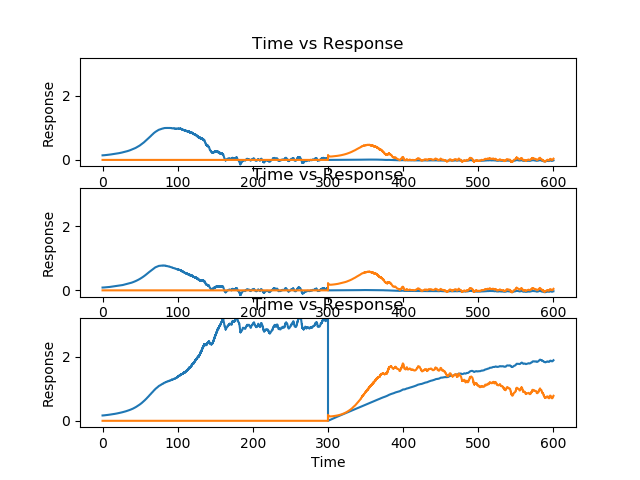
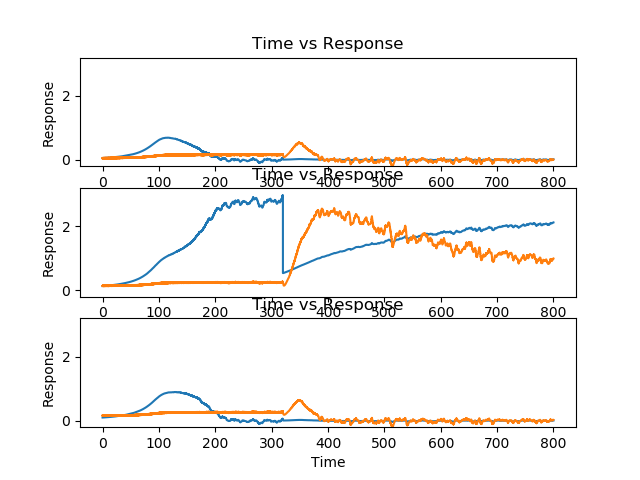
commit 06/14/22

diff --git a/bcm_ttx_network_i0.py b/bcm_ttx_network_i0.py
@@ -1,4 +1,4 @@
-# TTX injected in the ipsilateral eye (here, right eye);
+# TTX injected in the ipsilateral eye (here, right eye); 
 # TTX reduces inhibition to neuron coming from an inhibitory neuron
 
 
@@ -13,24 +13,25 @@ from torch.optim.lr_scheduler import StepLR
 import numpy as np
 from scipy.integrate import quad
 import matplotlib.pyplot as plt
-# hashtag hashtaggers
 
 class BCMNeuron:
     def __init__(self, lgn_l, lgn_r, patterns, p=2, tau_w=10, tau_theta=1, dt=0.01, eps=0,
-                 c0=50, condition='NR', iterations=60000, ttx_point=0.50, tau_ttx=300,
-                 we=1, wi=0.09):
+                 c0=50, condition='NR', iterations=80000, ttx_in = 0.40, ttx_gone =0.30, tau_ttx=400,
+                 contra_factor =1.5, we=1, wi=0.1):
         self.lgn_l = lgn_l  # Number of LGN-cortical input fibers from left eye
         self.lgn_r = lgn_r  # Number of LGN-cortical input fibers from right eye
         self.patterns = patterns  # Number of training patterns
         self.p = p  # Nonlinearity in the definition of theta
         self.tau_w = tau_w  # Modification step size
         self.tau_theta = tau_theta  # Time constant in the definition of theta
-        self.dt = dt  # simulation mesh size
-        self.eps = eps;  # regularization constant for weights
+        self.dt = dt # simulation mesh size
+        self.eps = eps; #regularization constant for weights 
         self.c0 = c0  # Normalization constant in the definition of theta
         self.iterations = iterations
-        self.ttx_in = np.floor(ttx_point * iterations)  # time of ttx injection
+        self.ttx_in = np.floor(ttx_in*iterations) # time of ttx injection
+        self.ttx_gone = np.floor(ttx_gone*iterations) # time of ttx starts to wear out
         self.tau_ttx = tau_ttx
+        self.contra_factor = contra_factor
         self.condition = condition
         #       NR = normal rearing,
         #       MD = monocular deprivation,
@@ -39,12 +40,12 @@ class BCMNeuron:
         #       BD = binocular deprivation
         #       TTX_decay = TTX injected in the ipsilatral eye (here, right eye); TTX decays
         #       TTX_inh = TTX injected in the ipsilateral eye (here, right eye); TTX reduces inhibition to neuron
-
-        ### variables for excitatory (present) BCM neuron
+        
+        ### variables for excitatory (present) BCM neuron       
         self.ml = 0.15 * np.random.rand(1, self.lgn_l)  # weights initialized to numbers btw 0 and 0.15
         self.mr = 0.15 * np.random.rand(1, self.lgn_r)  # weights initialized to numbers btw 0 and 0.15
-        self.weights_l = np.random.rand(1, self.lgn_l)  # record matrix; each row is a weight vector for the iteration
-        self.weights_r = np.random.rand(1, self.lgn_r, )  # record matrix; each row is a weight vector for the iteration
+        self.weights_l = np.random.rand(1,self.lgn_l)  # record matrix; each row is a weight vector for the iteration
+        self.weights_r = np.random.rand(1,self.lgn_r,)  # record matrix; each row is a weight vector for the iteration
         self.theta = 0.15 * np.random.rand()  # sliding threshold initialized to a number btw 0 and 0.15
         self.thresholds = self.theta  # record array of thresholds
         self.tuning_curve_l = np.zeros((self.patterns,))  # record matrix; each row is a tuning curve for the iteration
@@ -53,132 +54,139 @@ class BCMNeuron:
         ### variable for inhibitory neuron
         self.mli = 0.15 * np.random.rand(1, self.lgn_l)  # weights initialized to numbers btw 0 and 0.15
         self.mri = 0.15 * np.random.rand(1, self.lgn_r)  # weights initialized to numbers btw 0 and 0.15
-        self.weights_li = np.random.rand(1, self.lgn_l)  # record matrix; each row is a weight vector for the iteration
-        self.weights_ri = np.random.rand(1,
-                                         self.lgn_r, )  # record matrix; each row is a weight vector for the iteration
+        self.weights_li = np.random.rand(1,self.lgn_l)  # record matrix; each row is a weight vector for the iteration
+        self.weights_ri = np.random.rand(1,self.lgn_r,)  # record matrix; each row is a weight vector for the iteration
         self.thetai = 0.15 * np.random.rand()  # sliding threshold initialized to a number btw 0 and 0.15
         self.thresholdsi = self.thetai  # record array of thresholds
         self.tuning_curve_li = np.zeros((self.patterns,))  # record matrix; each row is a tuning curve for the iteration
         self.tuning_curve_ri = np.zeros((self.patterns,))  # record matrix; each row is a tuning curve for the iteration
 
         ### inhibition parameters
-        self.we = we  # excitatory weight from E to I
-        self.wi = wi  # Inhibitory weight from I to E
+        self.we = we # excitatory weight from E to I
+        self.wi = wi # Inhibitory weight from I to E
 
-    def train(self, da_l, da_r, da_li, da_ri, ds_l=0, ds_r=0,
+    def train(self, da_l, da_r, da_li, da_ri, ds_l=0, ds_r=0, 
               ds_li=0, ds_ri=0):
         # da => actual pattern; ds => spontaneous; n => non-lgn noise
         # r => right, l => left, i => inhibitory
-
-        a = 0.00001  # noise scaler
+        
+        al = 0.1 # noise scaler
+        ar = 0.00001 # noise scaler
+        bl = 0.00001 # noise scaler
+        br = 0.00001 # noise scaler
         # ttx_in = np.floor(0.5*self.iterations)  # time of ttx injection
         # ttx_gone =  np.floor(0.75*self.iterations) # time when ttx wears out
         # ttx_decay = 10
-
+      
         if (self.lgn_l != np.shape(da_l)[1]) or (self.lgn_r != np.shape(da_r)[1]):
             raise Exception('pattern size must equal weight (i.e lgn) size ')
         elif (self.lgn_l != np.shape(ds_l)[1]) or (self.lgn_r != np.shape(ds_r)[1]):
             raise Exception('pattern size must equal weight (i.e lgn) size ')
         else:
-
+            
             for i in range(self.iterations):
-
+                print(i)
                 t = i * self.dt
                 k = np.random.randint(np.shape(da_l)[0])
-
+                
                 # generate noise
-                nl = a * np.random.rand(self.patterns, self.lgn_l)
-                nr = a * np.random.rand(self.patterns, self.lgn_r)
-                nli = a * np.random.rand(self.patterns, self.lgn_l)
-                nri = a * np.random.rand(self.patterns, self.lgn_r)
-
+                nl = al*np.random.rand(self.patterns,self.lgn_l)
+                nr = ar*np.random.rand(self.patterns,self.lgn_r)
+                nli = al*np.random.rand(self.patterns,self.lgn_l)
+                nri = ar*np.random.rand(self.patterns,self.lgn_r)
+                
+                
                 # compute BCM neuron activity
                 # ca = np.sum(self.ml * da_l[k]) + np.sum(self.mr * da_r[k])
                 # cs = np.sum(self.ml * ds_l[k]) + np.sum(self.mr * ds_r[k])
                 # cn = np.sum(self.ml * nl[k]) + np.sum(self.mr * nr[k])
-                # c = ca - cs + cn
-
+                # c = ca - cs + cn 
+              
                 # compute inhibitory neuron activity
                 cai = np.sum(self.mli * da_li[k]) + np.sum(self.mri * da_ri[k])
                 csi = np.sum(self.mli * ds_li[k]) + np.sum(self.mri * ds_ri[k])
                 cni = np.sum(self.mli * nli[k]) + np.sum(self.mri * nri[k])
                 ci = cai - csi + cni
-
+                
+                
                 # nonlinear funtion of threshold and activity for inhibitory neuron
-                phii = ci * (ci - self.thetai)
-                ci = 0
-
-                if i <= self.ttx_in:
-                    # compute BCM neuron activity
-                    ca = 0 * np.sum(self.ml * da_l[k]) + np.sum(self.mr * da_r[k])  # only right eye gets input
-                    cs = 0 * np.sum(self.ml * ds_l[k]) + np.sum(self.mr * ds_r[k])  # only right eye gets input
-                    cn = np.sum(self.ml * nl[k]) + np.sum(self.mr * nr[k])  # both eyes get noise
-                    c = ca - cs + cn
-                    # Feedback loop
-                    # ci = ci + self.we*c
-                    # c = c - self.wi*ci
-                    # nonlinear function of threshold and activity
-                    phi = c * (c - self.theta)
-                    # update left weights for BCM neuron
-                    self.ml = self.ml + (1 / self.tau_w) * self.dt * (
-                                phi * (0 * da_l[k] - 0 * ds_l[k] + nl[k]) - self.eps * self.ml)
-                    # update right weights for BCM neuron
-                    self.mr = self.mr + (1 / self.tau_w) * self.dt * (
-                                phi * (da_r[k] - ds_r[k] + nr[k]) - self.eps * self.mr)
-                    # Add responses to all orientation in the tuning curve matrix
-                    self.tuning_curve_l = np.vstack(
-                        (self.tuning_curve_l, np.sum((0 * da_l - 0 * ds_l + nl) * self.ml, axis=1)))
-                    self.tuning_curve_r = np.vstack((self.tuning_curve_r, np.sum((da_r - ds_r + nr) * self.mr, axis=1)))
+                phii = ci*(ci - self.thetai)
+                ci=0
+              
+                if i <= self.ttx_in:  
+                   # generate noise
+                   nl = al*np.random.rand(self.patterns,self.lgn_l)
+                   nr = ar*np.random.rand(self.patterns,self.lgn_r)
+                   nli = al*np.random.rand(self.patterns,self.lgn_l)
+                   nri = ar*np.random.rand(self.patterns,self.lgn_r)
+                   # compute BCM neuron activity
+                   ca = 0*np.sum(self.ml * da_l[k]) + np.sum(self.mr * da_r[k])  # only right eye gets input
+                   cs = 0*np.sum(self.ml * ds_l[k]) + np.sum(self.mr * ds_r[k])  # only right eye gets input
+                   cn = self.contra_factor*np.sum(self.ml * nl[k]) + np.sum(self.mr * nr[k])   # both eyes get noise
+                   c = ca - cs + cn 
+                   # Feedback loop
+                   ci = ci + self.we*c
+                   c = c - self.wi*ci
+                   # nonlinear funtion of threshold and activity
+                   phi = c*(c - self.theta)
+                   # update left weights for BCM neuron
+                   self.ml = self.ml + (1/self.tau_w) * self.dt * (phi * (0*da_l[k] - 0*ds_l[k] + nl[k]) - self.eps*self.ml)  
+                   # update right weights for BCM neuron      
+                   self.mr = self.mr + (1/self.tau_w) * self.dt * (phi * (da_r[k] - ds_r[k] + nr[k]) - self.eps*self.mr) 
+                   # Add responses to all orientation in the tuning curve matrix
+                   self.tuning_curve_l = np.vstack((self.tuning_curve_l, self.contra_factor * np.sum((da_l - ds_l + nl) * self.ml, axis=1)))
+                   self.tuning_curve_r = np.vstack((self.tuning_curve_r, np.sum((da_r - ds_r + nr) * self.mr, axis=1)))
                 else:
-                    # ttx_factor = np.exp((i-ttx_gone)*np.heaviside(ttx_gone-i,0))
-                    ttx_factor = (1 - np.exp(self.dt * (1 / self.tau_ttx) * (self.ttx_in - i)))
-                    # ttx_factor = np.heaviside(i-60000,0)
-                    # ttx_factor = 0
-                    # print(ttx_factor)
-                    # compute BCM neuron activity
-                    ca = np.sum(self.ml * da_l[k]) + ttx_factor * np.sum(self.mr * da_r[k])
-                    cs = np.sum(self.ml * ds_l[k]) + ttx_factor * np.sum(self.mr * ds_r[k])
-                    cn = np.sum(self.ml * nl[k]) + ttx_factor * np.sum(self.mr * nr[k])
-                    c = ca - cs + cn
-                    # Feedback loop
-                    ci = ci + self.we * c
-                    c = c - self.wi * ci
-                    # nonlinear funtion of threshold and activity
-                    phi = c * (c - self.theta)
-                    # update left weights for BCM neuron
-                    self.ml = self.ml + (1 / self.tau_w) * self.dt * (
-                                phi * (da_l[k] - ds_l[k] + nl[k]) - self.eps * self.ml)
-                    # update right weights for BCM neuron
-                    self.mr = self.mr + (1 / self.tau_w) * self.dt * (
-                                phi * ttx_factor * (da_r[k] - ds_r[k] + nr[k]) - self.eps * self.mr)
-                    # Add responses to all orientation in the tuning curve matrix
-                    self.tuning_curve_l = np.vstack((self.tuning_curve_l, np.sum((da_l - ds_l + nl) * self.ml, axis=1)))
-                    self.tuning_curve_r = np.vstack(
-                        (self.tuning_curve_r, np.sum(ttx_factor * (da_r - ds_r + nr) * self.mr, axis=1)))
-
+                   # generate noise
+                   nl = bl*np.random.rand(self.patterns,self.lgn_l)
+                   nr = br*np.random.rand(self.patterns,self.lgn_r)
+                   nli = bl*np.random.rand(self.patterns,self.lgn_l)
+                   nri = br*np.random.rand(self.patterns,self.lgn_r)
+                   # ttx_factor = np.exp((i-ttx_gone)*np.heaviside(ttx_gone-i,0))
+                   #ttx_factor = (1- np.exp(self.dt*(1/self.tau_ttx)*(self.ttx_in-i)))
+                   ttx_factor = np.heaviside(i-self.ttx_gone,0)*\
+                                (1- np.exp(self.dt*(1/self.tau_ttx)*(self.ttx_gone-i)))
+                   # ttx_factor = np.heaviside(i-60000,0)
+                   # ttx_factor = 0
+                   # print(ttx_factor)
+                   # compute BCM neuron activity
+                   ca =  np.sum(self.ml * da_l[k]) + ttx_factor * np.sum(self.mr * da_r[k])
+                   cs =  np.sum(self.ml * ds_l[k]) + ttx_factor * np.sum(self.mr * ds_r[k])
+                   cn =  np.sum(self.ml * nl[k]) + ttx_factor * np.sum(self.mr * nr[k])
+                   c = ca - cs + cn 
+                   # Feedback loop
+                   ci = ci + self.we*c
+                   c = c - self.wi*ci
+                   # nonlinear funtion of threshold and activity
+                   phi = c*(c - self.theta)
+                   # update left weights for BCM neuron
+                   self.ml = self.ml + (1/self.tau_w) * self.dt * (phi * (da_l[k] - ds_l[k] + nl[k]) - self.eps*self.ml)  
+                   # update right weights for BCM neuron   
+                   self.mr = self.mr + (1/self.tau_w) * self.dt * (phi * ttx_factor * (da_r[k] - ds_r[k] + nr[k]) - self.eps*self.mr) 
+                   # Add responses to all orientation in the tuning curve matrix
+                   self.tuning_curve_l = np.vstack((self.tuning_curve_l, np.sum(self.contra_factor* (da_l - ds_l + nl) * self.ml, axis=1)))
+                   # self.tuning_curve_r = np.vstack((self.tuning_curve_r, np.sum(np.heaviside(i-self.ttx_gone,0)*(da_r - ds_r + nr) * self.mr, axis=1)))
+                   self.tuning_curve_r = np.vstack((self.tuning_curve_r, np.sum(ttx_factor *(da_r - ds_r + nr) * self.mr, axis=1)))
+  
                 # update left weights for inhibitory neuron
-                self.mli = self.mli + (1 / self.tau_w) * self.dt * (
-                            phii * (da_li[k] - ds_li[k] + nli[k]) - self.eps * self.mli)
-                # update right weights for inhibitory neuron
-                self.mri = self.mri + (1 / self.tau_w) * self.dt * (
-                            phii * (da_ri[k] - ds_ri[k] + nri[k]) - self.eps * self.mri)
-
+                self.mli = self.mli + (1/self.tau_w) * self.dt * (phii * (da_li[k] - ds_li[k] + nli[k]) - self.eps*self.mli)  
+                # update right weights for inhibitory neuron      
+                self.mri = self.mri + (1/self.tau_w) * self.dt * (phii * (da_ri[k] - ds_ri[k] + nri[k]) - self.eps*self.mri) 
+                          
                 # Add new weights to the weight matrices
                 self.weights_l = np.vstack((self.weights_l, self.ml))
                 self.weights_r = np.vstack((self.weights_r, self.mr))
                 self.weights_li = np.vstack((self.weights_li, self.mli))
                 self.weights_ri = np.vstack((self.weights_ri, self.mri))
                 # We need to now update theta
-                self.theta = self.theta + (1 / self.tau_theta) * self.dt * (ca ** self.p - self.theta)
-                self.thetai = self.thetai + (1 / self.tau_theta) * self.dt * (ca ** self.p - self.thetai)
+                self.theta = self.theta + (1/self.tau_theta) * self.dt * (ca**self.p-self.theta)
+                self.thetai = self.thetai + (1/self.tau_theta) * self.dt * (ca**self.p-self.thetai)
                 # Add new theta to the vector of thresholds
                 self.thresholds = np.hstack((self.thresholds, self.theta))
                 self.thresholdsi = np.hstack((self.thresholdsi, self.thetai))
                 # Add responses to all orientation in the tuning curve matrix for inhibitory neuron
-                self.tuning_curve_li = np.vstack(
-                    (self.tuning_curve_li, np.sum((da_li - ds_li + nli) * self.mli, axis=1)))
-                self.tuning_curve_ri = np.vstack(
-                    (self.tuning_curve_ri, np.sum((da_ri - ds_ri + nri) * self.mri, axis=1)))
+                self.tuning_curve_li = np.vstack((self.tuning_curve_li, np.sum((da_li - ds_li + nli) * self.mli, axis=1)))
+                self.tuning_curve_ri = np.vstack((self.tuning_curve_ri, np.sum((da_ri - ds_ri + nri) * self.mri, axis=1)))
         # Now delete the first entries (initializations) of the record matrices/vectors
         self.weights_l = np.delete(self.weights_l, 0, axis=0)
         self.weights_r = np.delete(self.weights_r, 0, axis=0)
